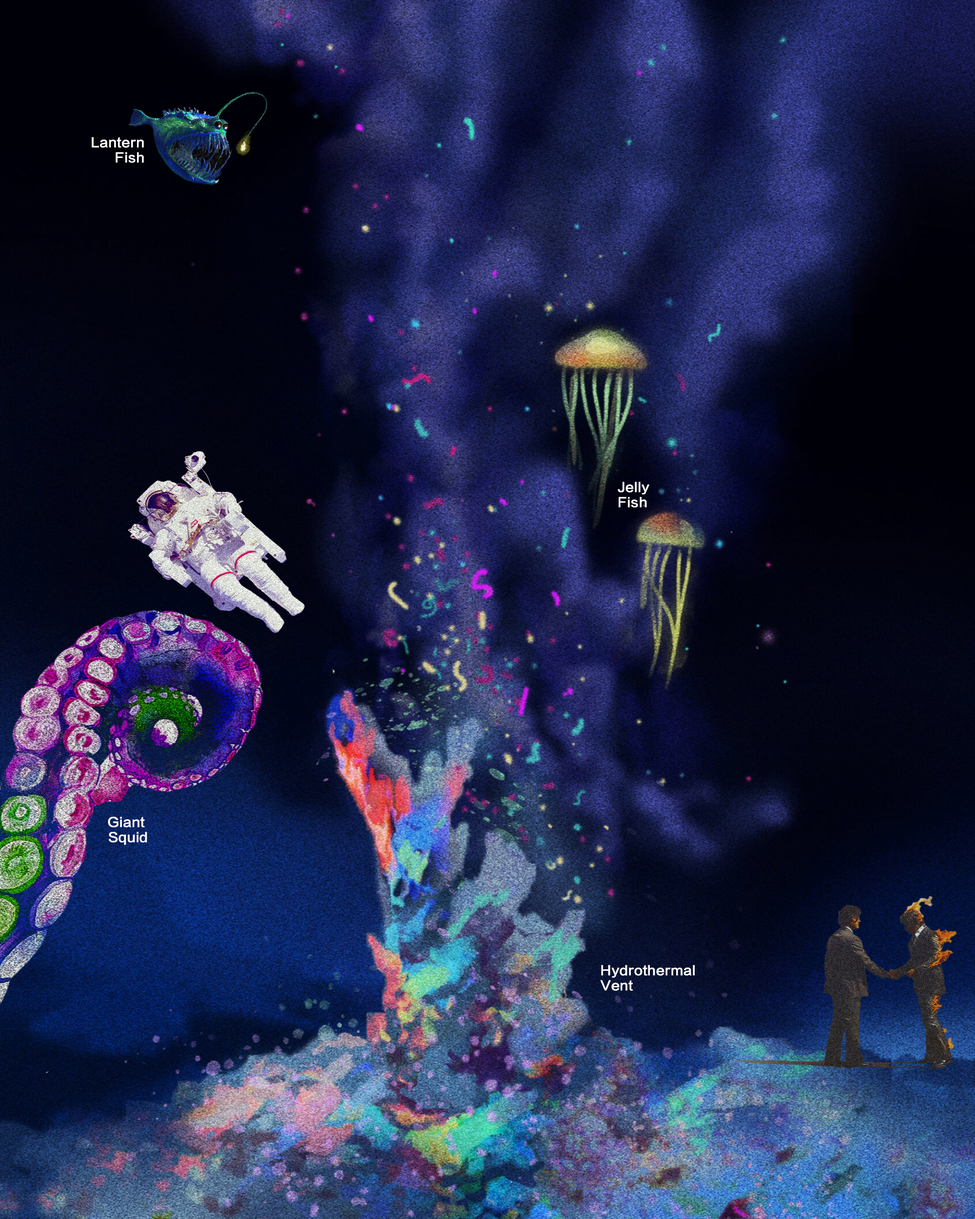
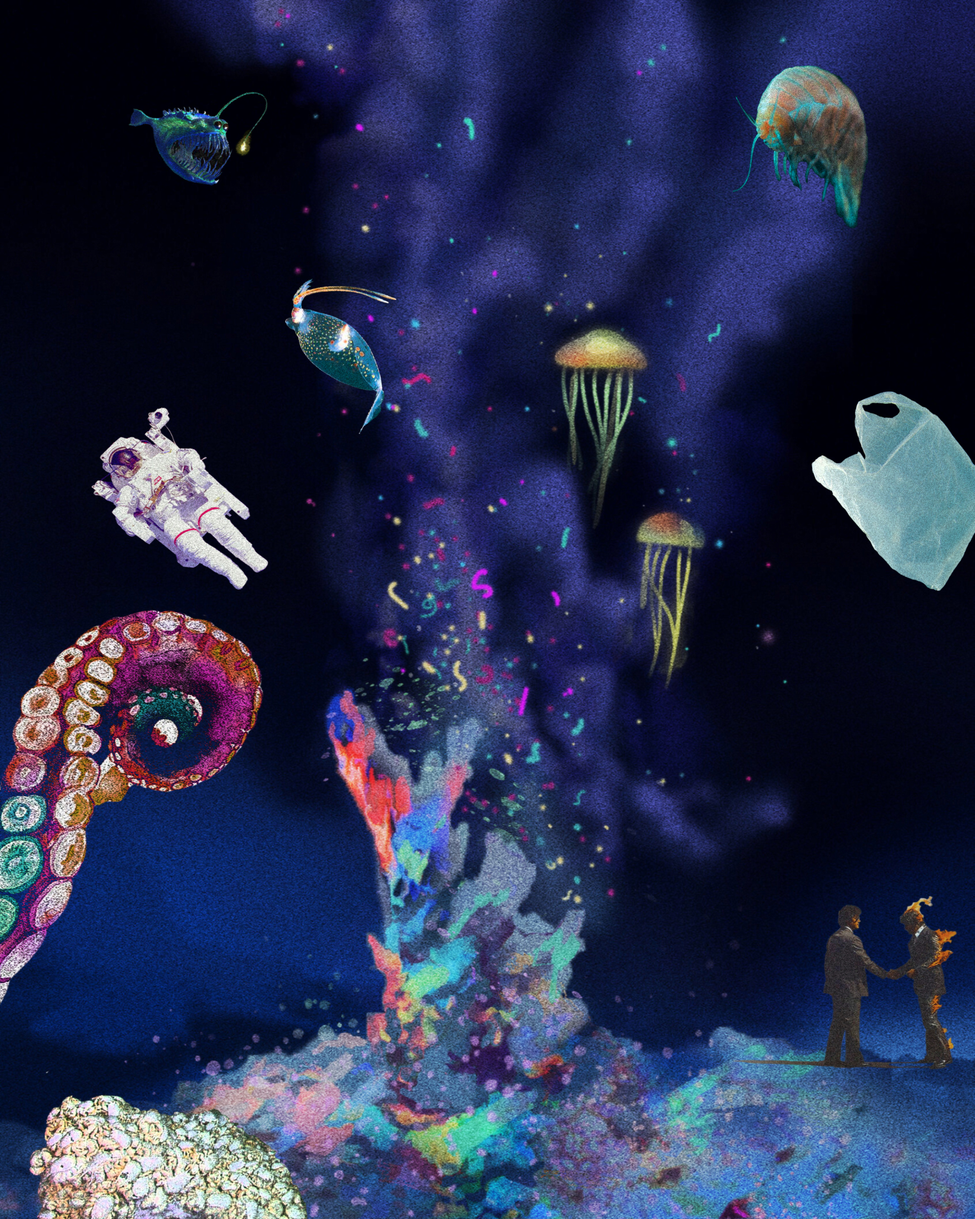
sticky block fixed

diff --git a/public/app.js b/public/app.js
@@ -70,19 +70,22 @@ socket.on('newMsg', (data) => {
     console.log(data);
 })
 
+// // B3 spotlight interaction
+// socket.on('spotData', () => {
+//     spotlight(mouseX, mouseY);
+
+// })
+
+// A3 once a ball got removed
 socket.on('removeData', () => {
-    console.log(balls)
+    // console.log(balls)
     for (let k = 0; k < balls.length; k++) {
-        // if (ball.contains(mouseX, mouseY)) {
-        //     ball[k].changeColor();
-        // }
         balls[k].swell();
         setTimeout(function() {
             balls[k].shrink();
         }, 250);
     }
-})
-
+});
 
 function setup() {
     createCanvas(2000, 2500);
@@ -138,9 +141,6 @@ function draw() {
     ellipse(20, 2480, 20);
     ellipse(1980, 20, 20);
 
-    // spot light feature
-    // createBlurredEllipse(mouseX - 25, mouseY - 25, 50, 50);
-
     // // Glow on the background image - glow follow mouse
     spotlight(mouseX, mouseY);
 
@@ -148,10 +148,10 @@ function draw() {
     fill(255, 128, 82);
     noStroke();
     textAlign(CENTER, TOP);
-    text("↓↓↓ scroll down to enter the deep ↓↓↓", 1000, 5);
+    text("↓↓↓ Are you ready? Scroll down to enter the deep! ↓↓↓", 1000, 5);
     textSize(15);
     textAlign(CENTER, BOTTOM);
-    text("Retouched and photoshoped by Po-Wen Shih for Connections Lab class, 2020 Fall. Background image by Mark Pernice for the article - Treasure and Turmoil in the Deep Sea, The New York Times", 1000, 2485);
+    text("Background image by Mark Pernice for the article - Treasure and Turmoil in the Deep Sea, The New York Times. Retouched and photoshoped by Po-Wen Shih for Connections Lab class project 3, 2020 Fall.", 1000, 2485);
 
 
     // Generate balls 
@@ -171,42 +171,32 @@ function draw() {
 
         // Conditions for starting game instruction where to find the balls
         if (readytoplay && balls.length >= 20) {
-            textSize(50);
+            textSize(25);
             fill(255, 128, 82);
             noStroke();
             textAlign(CENTER);
-            text("NAVIGATE TO FIND BALLS", 1000, 1000);
+            text("Bubbles are in our way! Drag your mouse to clean the ocean", 1000, 1000);
         }
 
         // In game remider to encourage to finish the game
         if (balls.length <= 6 && balls.length >= 3) {
-            textSize(50);
+            textSize(25);
             fill(255, 128, 82);
             noStroke();
             textAlign(CENTER);
-            text("WE ARE ALMOST THERE!", 1000, 1000);
+            text("You are making a path entering the deep!", 1000, 1000);
         }
     }
 
     // Finish game prompt when balls are left less than three
     if (balls.length < 3 && readytoplay) {
-        textSize(50);
-        fill(200);
+        textSize(25);
+        fill(255, 128, 82);
         noStroke();
         textAlign(CENTER);
-        text("YOU BRING US TO THE HYDROTHERMAL VENT!", 1000, 1000);
+        text("We got to the deep! The deep has gotten cleaner", 1000, 1000);
     }
 };
-
-// // spot light feature
-// function createBlurredEllipse(x, y, width, height) {
-//     let img2 = createGraphics(width + 2, height + 2);
-//     img2.noStroke();
-//     img2.fill(255, 255, 255, 100);
-//     img2.ellipse(width / 2, height / 2, width, height);
-//     image(img2, x, y);
-//     filter(BLUR, 6);
-// }
 
 // // Glow on the background image
 function spotlight(x, y) {
@@ -219,8 +209,10 @@ function spotlight(x, y) {
             // console.log(colour);
             noStroke();
             ellipse(x + r * cos(theta), y + r * sin(theta), 15, 15);
-
         }
+        // // B1 there will another socket emit enable spotlight interaction
+        // socket.emit('spotData');
+        // console.log('spotdata');
     }
 }
 
@@ -244,7 +236,7 @@ function mouseDragged() {
             // for the two games this can be different
             socket.emit('gameData', data);
 
-            // 1 there will another socket emit ...
+            // A1 there will another socket emit enable bubble interaction
             socket.emit('removeData');
         }
     }
@@ -258,26 +250,26 @@ function removeBalls(data) {
 
 // my ball DNA(class)
 class Ball {
-    // constructor(x, y, r, xspeed, yspeed) {
+    // constructor(x, y, r, xspeed, yspeed)
     constructor(x, y, r) {
-        this.x = x;
-        this.y = y;
-        this.r = r;
-        this.a = random(255);
-        this.brightness = random(100, 200);
-        this.strokeR = 255;
-        this.strokeG = 255;
-        this.strokeB = 255;
-        this.strokeA = random(255);
-        this.strokeWeight = 0;
-        // this.removal = removal;
-        // this.xspeed = xspeed;
-        // this.yspeed = yspeed;
-    }
-
+            this.x = x;
+            this.y = y;
+            this.r = r;
+            this.a = random(255);
+            this.brightness = random(100, 200);
+            this.strokeR = 255;
+            this.strokeG = 255;
+            this.strokeB = 255;
+            this.strokeA = random(255);
+            this.strokeWeight = 0;
+            // this.removal = removal;
+            // this.xspeed = xspeed;
+            // this.yspeed = yspeed;
+        }
+        // mouse interactions
     swell() {
         this.a += 50;
-        this.r += 5;
+        this.r += 11;
         this.strokeWeight += random(10);
         this.strokeR -= random(255);
         this.strokeG -= random(100);
@@ -288,7 +280,7 @@ class Ball {
 
     shrink() {
         this.a -= 50;
-        this.r -= 5;
+        this.r -= 10;
         this.strokeWeight = 0;
         this.strokeR = 255;
         this.strokeG = 255;
@@ -299,7 +291,7 @@ class Ball {
     }
 
     show() {
-        console.log('show balls');
+        // console.log('show balls');
         stroke(this.strokeR, this.strokeG, this.strokeB, this.strokeA);
         strokeWeight(this.strokeWeight);
         fill(this.brightness, this.a);

diff --git a/public/index.html b/public/index.html
@@ -25,13 +25,13 @@
     <div class="main-container ">
         <div class="theme-container">
 
-            <h1 id="theme-title">E N T E R I N G<br>T H E *D E E P</h1>
+            <h1 id="theme-title">E N T E R I N G<br><span>T H E&nbsp;&nbsp;&nbsp;&nbsp;&nbsp;D E E P</h1>
             <p id="theme-desc">A place of cold and hot, dark and high pressure. What is it like to be in the deep? Is it possible to get there? I asked myself. In fact, More people have traveled into space than have traveled to the deep ocean realm...
             </p>
 
         </div>
 
-        <div class="game-container">
+        <div class="game-container sticky">
             <div class="game-level">
 
                 <div class="game-button" id="game-button">
@@ -40,26 +40,26 @@
                 </div>
 
                 <div class="game-msg" id="game-msg">
-                    <div class="level-msg" id="level-msg">Show me the way!</div>
+                    <div class="level-msg" id="level-msg">Scroll down first</div>
                     <div class="new-msg" id="new-msg"></div>
                     <span id="score1"></span>
-                    <span id="scoreNum"></span>
-                    <span id="score3"></span>
-                </div>
-
-                <div class="level-chat" id="level-chat">
-                    <input class="send-input" id="send-input" placeholder="YOUR MESSAGE" />
-                    <button class="send-button" id="send-button"> SEND </button>
-                </div>
-
-            </div>
-
+                <span id="scoreNum"></span>
+                <span id="score3"></span>
         </div>
 
-        <div class="canvas-container">
-            <img class="canvas__img" src="Treasure_and_Turmoil_2000x2500.jpg" alt="Treasure_and_Turmoil_illustration_by_Mark_Pernice" />
-
+        <div class="level-chat" id="level-chat">
+            <input class="send-input" id="send-input" placeholder="YOUR MESSAGE" />
+            <button class="send-button" id="send-button"> SEND </button>
         </div>
+
+    </div>
+
+    </div>
+
+    <div class="canvas-container">
+        <img class="canvas-img" src="Treasure_and_Turmoil_2000x2500_bw.jpg" alt="Treasure_and_Turmoil_illustration_by_Mark_Pernice" />
+
+    </div>
 
     </div>
     <!-- <script src="main.js "></script> -->

diff --git a/index.js b/index.js
@@ -61,7 +61,8 @@ io.sockets.on('connect', (socket) => {
     socket.on('newMsg', (data) => {
         // io.to(socket.levelData).emit('newMsg', data);
         io.sockets.emit('newMsg', data);
-        messages[socket.levelData].push(data.message);
+        messages[socket.levelData] = data.message;
+        console.log(socket)
         console.log(messages);
     });
 
@@ -81,36 +82,44 @@ io.sockets.on('connect', (socket) => {
         console.log("A client has disconnected : " + socket.id);
     });
 
-    // 2 additional socket.on and io.sockets.emit('just the name')
+    // // B2 bubble interaction - additional socket.on and io.sockets.emit('just the name')
+    // socket.on('spotData', () => {
+    //     io.sockets.emit('spotData')
+    // });
+
+    // A2 bubble interaction - additional socket.on and io.sockets.emit('just the name')
     socket.on('removeData', () => {
         io.sockets.emit('removeData')
-    })
+    });
+
+
+
 });
 
 
 
 // JONING BALL DATA
 let joinBall = [
-    { x: 10, y: 34, r: 50 },
+    { x: 10, y: 200, r: 50 },
     { x: 200, y: 522, r: 80 },
     { x: 187, y: 15, r: 120 },
-    { x: 203, y: 148, r: 60 },
-    { x: 568, y: 595, r: 250 },
-    { x: 400, y: 666, r: 70 },
-    { x: 300, y: 102, r: 12 },
-    { x: 25, y: 600, r: 200 },
-    { x: 200, y: 500, r: 125 },
+    { x: 203, y: 148, r: 75 },
+    { x: 450, y: 650, r: 145 },
+    { x: 200, y: 700, r: 115 },
+    { x: 300, y: 102, r: 30 },
+    { x: 25, y: 700, r: 200 },
+    { x: 377, y: 500, r: 125 },
     { x: 357, y: 459, r: 75 },
-    { x: 481, y: 50, r: 45 },
-    { x: 300, y: 431, r: 150 },
-    { x: 500, y: 200, r: 250 },
-    { x: 420, y: 300, r: 45 },
+    { x: 481, y: 50, r: 50 },
+    { x: 300, y: 600, r: 95 },
+    { x: 500, y: 200, r: 175 },
+    { x: 420, y: 300, r: 60 },
     { x: 100, y: 100, r: 100 },
-    { x: 50, y: 100, r: 45 },
-    { x: 500, y: 501, r: 150 },
+    { x: 50, y: 300, r: 90 },
+    { x: 600, y: 650, r: 80 },
     { x: 311, y: 123, r: 75 },
-    { x: 345, y: 635, r: 150 },
-    { x: 400, y: 435, r: 210 }
+    { x: 345, y: 635, r: 115 },
+    { x: 600, y: 435, r: 180 }
 ];
 
 // let randomXspeed = Math.floor(Math.random() * (1 - (-1)));

diff --git a/public/style.css b/public/style.css
@@ -2,12 +2,12 @@ body {
     padding: 20px 50px;
     background-color: black;
     font-family: Arial, Helvetica, sans-serif;
-    color: coral;
+    color: rgb(255, 127, 80);
 }
 
 .main-container {
-    margin-bottom: 50px;
     width: 100%;
+    margin-bottom: 50px;
     display: flex;
     flex-direction: row;
     flex-wrap: wrap;
@@ -17,7 +17,7 @@ body {
 
 .theme-container {
     min-width: 500px;
-    width: 45%;
+    width: 52%;
     display: inline-block;
 }
 
@@ -41,8 +41,17 @@ body {
 
 .game-container {
     margin: 30px;
-    width: 45%;
+    width: 40%;
     min-width: 500px;
+}
+
+.sticky {
+    position: -webkit-sticky;
+    position: sticky;
+    top: 0;
+    background-color: rgb(255, 128, 82);
+    padding: 50px;
+    font-size: 20px;
 }
 
 button {
@@ -64,7 +73,7 @@ button:hover {
 
 #game-msg {
     font-size: 20px;
-    color: rgb(240, 240, 240);
+    color: rgb(0, 0, 0);
 }
 
 #send-input {
@@ -86,7 +95,7 @@ button:hover {
 }
 
 #scoreNum {
-    color: rgb(4, 218, 218);
+    color: white;
     font-size: 50px;
 }
 
@@ -107,10 +116,10 @@ button:hover {
 
 /* A media query that will apply specific style properties dependent on the width of the browser window */
 
-@media (max-width: 2000px) {
-    .canvas_img {
-        width: 360px;
-        margin-top: 20px;
+@media (max-width: 50%) {
+    .canvas-img {
+        min-width: 500px;
+        /* margin-top: 20px; */
     }
 }
 
